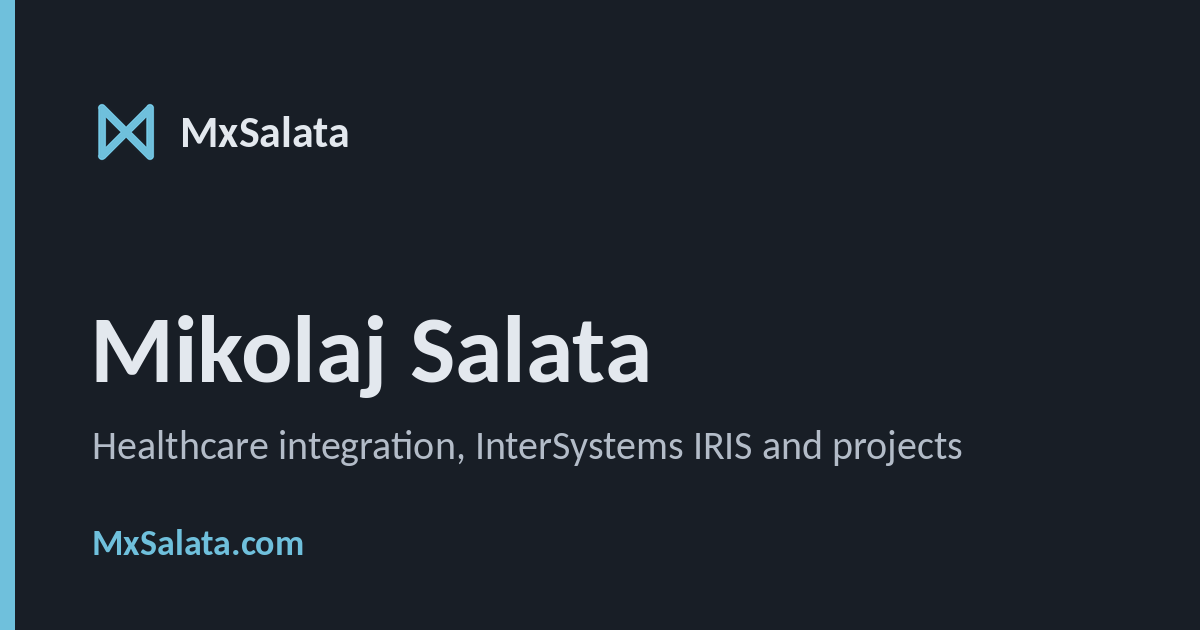
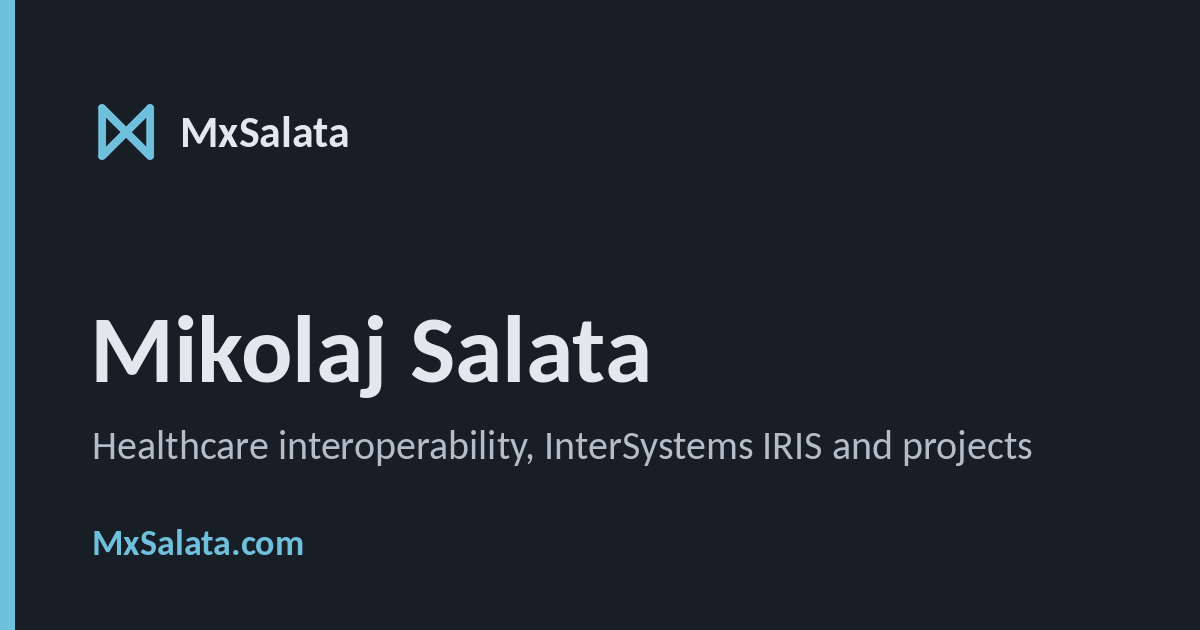
Describe the work as healthcare interoperability

Changed region(s): [[0.2775, 0.6635, 0.8633, 0.754]]

diff --git a/src/lib/site.ts b/src/lib/site.ts
@@ -1,7 +1,7 @@
 export const SITE = {
   name: 'Mikolaj Salata',
   title: 'Mikolaj Salata',
-  description: 'Healthcare integration engineer: projects, writing and CV of Mikolaj Salata.',
+  description: 'Healthcare interoperability specialist: projects, writing and CV of Mikolaj Salata.',
   linkedin: 'https://www.linkedin.com/in/msalata/',
   github: 'https://github.com/MxSalata',
   email: 'hello@mxsalata.com',
